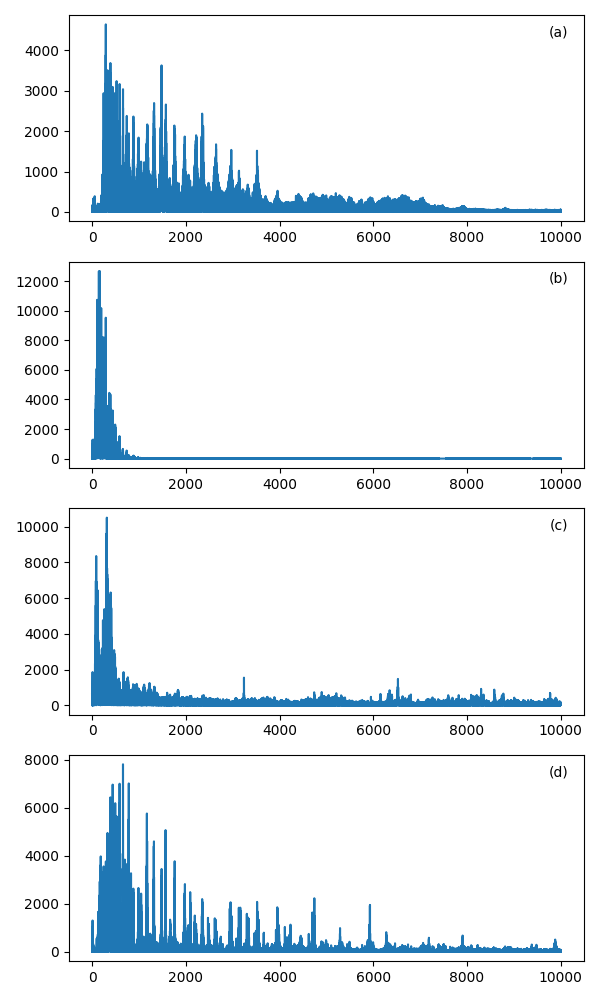
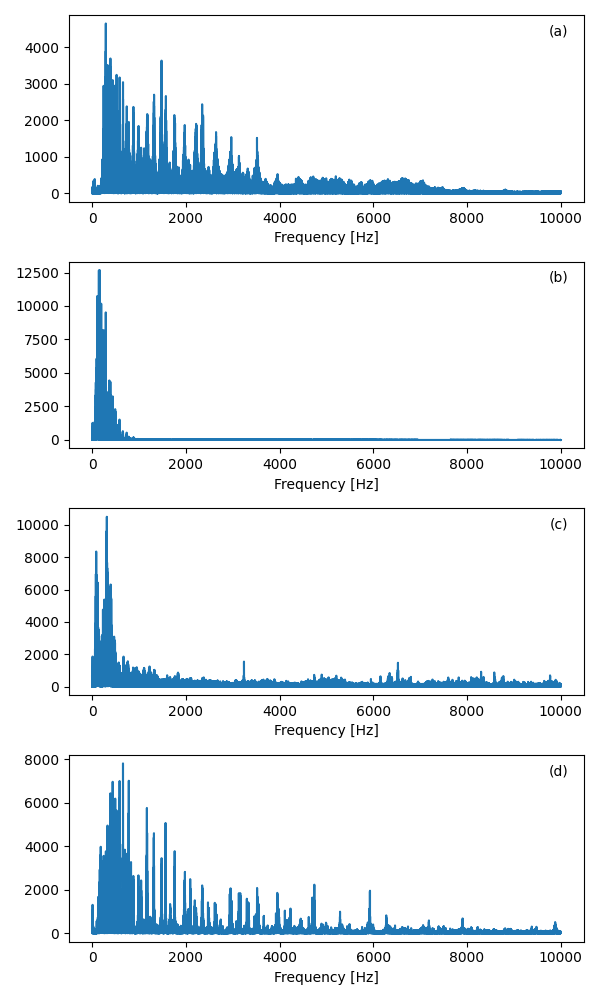
Modifications in fft and plot performance scripts

diff --git a/plot_performance.py b/plot_performance.py
@@ -30,15 +30,16 @@ def plot_performance(folder, json_file):
     sdrs[index] = np.mean(np.array(sdrs[index]))
 
 
-  fig, ax1 = plt.subplots(figsize=(6, 2.5))
+  fig, ax1 = plt.subplots(figsize=(6, 4))
 
   ax2 = ax1.twinx()
   ax1.plot(s_lengths, sdrs, '-o', color='tab:blue')
   ax2.plot(s_lengths, times, '-o', color='tab:orange')
 
+  ax1.set_ylabel('SDR values [dB]', color='tab:blue')
+  ax2.set_ylabel('Time per prediction [s]', color='tab:orange')
+
   ax1.set_xlabel('Sample length')
-  ax1.set_ylabel('SDR values', color='tab:blue')
-  ax2.set_ylabel('Time per prediction', color='tab:orange')
 
   ax1.grid()
 

diff --git a/script_fft_song.py b/script_fft_song.py
@@ -38,5 +38,7 @@ for index, track in enumerate(tracks):
      verticalalignment='top',
      transform = axs[index].transAxes)
 
+    axs[index].set_xlabel('Frequency [Hz]')
+
 fig.tight_layout()
 fig.savefig('images/fft.png')
